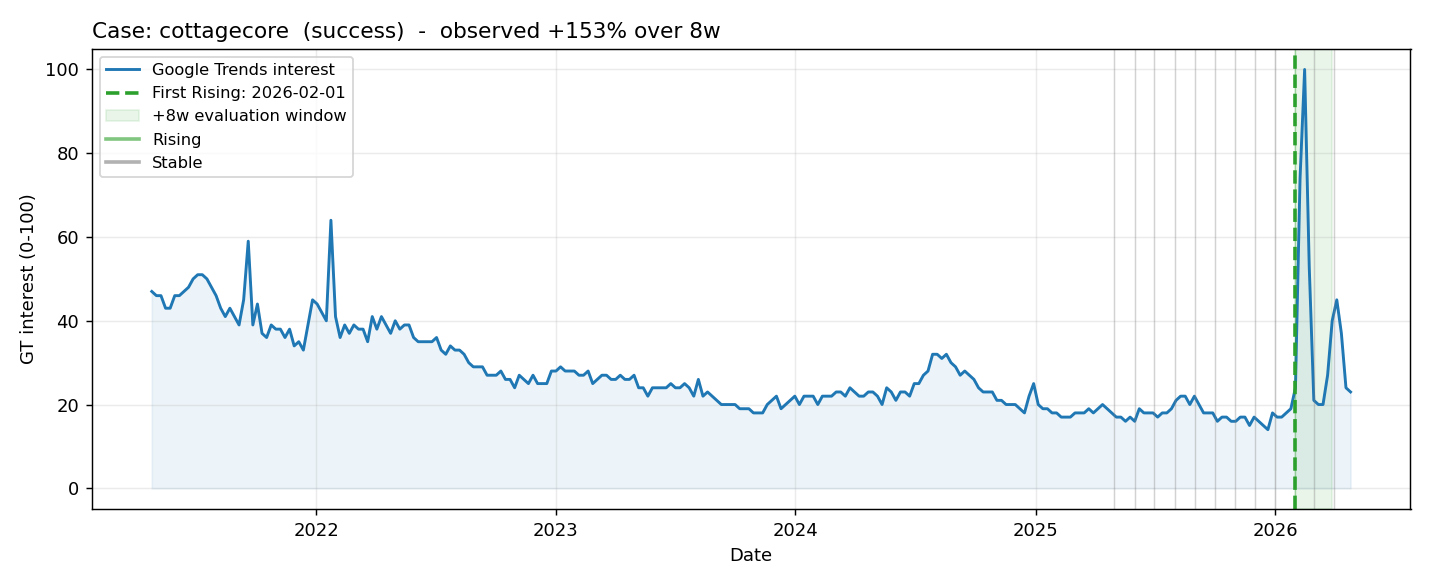
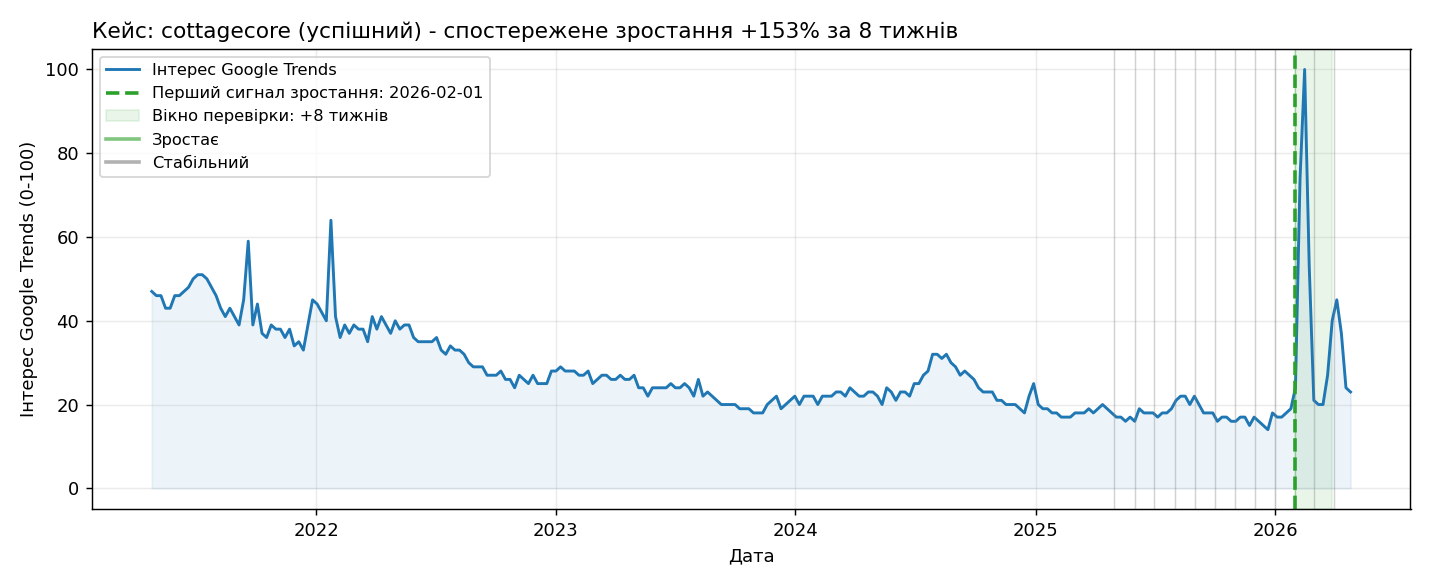
adds figures

diff --git a/src/eval/case_studies.py b/src/eval/case_studies.py
@@ -35,6 +35,10 @@ CASES_DIR = REPORTS_DIR / "case_studies"
 
 STATUS_COLORS = {"Rising": "#2ca02c", "Stable": "#7f7f7f",
                  "Declining": "#d62728", "Unknown": "#cccccc"}
+STATUS_LABELS_UA = {"Rising": "Зростає", "Stable": "Стабільний",
+                    "Declining": "Спадає", "Unknown": "Невідомо"}
+CASE_KIND_UA = {"success": "успішний", "failure": "помилковий",
+                "extra": "додатковий"}
 
 
 def _pick_cases(det: pd.DataFrame, max_cases: int) -> list[dict]:
@@ -99,7 +103,8 @@ def _draw_case(
 
     fig, ax = plt.subplots(figsize=(11, 4.5))
     ax.plot(sub_gt["date"], sub_gt["interest"],
-            color="#1f77b4", linewidth=1.6, label="Google Trends interest")
+            color="#1f77b4", linewidth=1.6,
+            label="Інтерес Google Trends")
     ax.fill_between(sub_gt["date"], 0, sub_gt["interest"],
                     color="#1f77b4", alpha=0.08)
 
@@ -114,21 +119,21 @@ def _draw_case(
         first_rising = rising.iloc[0]
         ax.axvline(first_rising["as_of"], color="#2ca02c",
                    linewidth=2.0, linestyle="--",
-                   label=f"First Rising: {first_rising['as_of'].date()}")
+                   label=f"Перший сигнал зростання: {first_rising['as_of'].date()}")
         # Highlight evaluation horizon.
         end = first_rising["as_of"] + pd.Timedelta(weeks=horizon_weeks)
         ax.axvspan(first_rising["as_of"], end,
                    color="#2ca02c", alpha=0.10,
-                   label=f"+{horizon_weeks}w evaluation window")
+                   label=f"Вікно перевірки: +{horizon_weeks} тижнів")
 
-    title = f"Case: {keyword}  ({kind})"
+    title = f"Кейс: {keyword} ({CASE_KIND_UA.get(kind, kind)})"
     if "gt_growth" in sub_det.columns and rising is not None and not rising.empty:
         first = rising.iloc[0]
         if pd.notna(first.get("gt_growth")):
-            title += f"  -  observed +{first['gt_growth']*100:.0f}% over {horizon_weeks}w"
+            title += f" - спостережене зростання +{first['gt_growth']*100:.0f}% за {horizon_weeks} тижнів"
     ax.set_title(title, fontsize=12, loc="left")
-    ax.set_xlabel("Date")
-    ax.set_ylabel("GT interest (0-100)")
+    ax.set_xlabel("Дата")
+    ax.set_ylabel("Інтерес Google Trends (0-100)")
     ax.grid(True, alpha=0.25)
 
     # Custom legend (status colours + lines).
@@ -137,8 +142,9 @@ def _draw_case(
         if (sub_det["status"] == status_name).any():
             from matplotlib.lines import Line2D
             handles.append(Line2D([0], [0], color=color, linewidth=2,
-                                  alpha=0.6, label=status_name))
-            labels.append(status_name)
+                                  alpha=0.6,
+                                  label=STATUS_LABELS_UA.get(status_name, status_name)))
+            labels.append(STATUS_LABELS_UA.get(status_name, status_name))
     ax.legend(handles, labels, loc="upper left", fontsize=9, frameon=True)
 
     fig.tight_layout()
@@ -210,7 +216,8 @@ def _draw_topic_case(
 
     fig, ax = plt.subplots(figsize=(11, 4.5))
     ax.plot(sub_ts["period"], sub_ts["count"],
-            color="#1f77b4", linewidth=1.6, label="Topic count (weekly)")
+            color="#1f77b4", linewidth=1.6,
+            label="Кількість документів теми за тиждень")
     ax.fill_between(sub_ts["period"], 0, sub_ts["count"],
                     color="#1f77b4", alpha=0.08)
 
@@ -219,21 +226,21 @@ def _draw_topic_case(
         ax.axvline(r["as_of"], color=c, alpha=0.35, linewidth=0.8)
 
     rising = sub_det[sub_det["status"] == "Rising"]
-    title = f"Topic #{tid} ({case['kind']}): {case['label']}"
+    title = f"Тема #{tid} ({CASE_KIND_UA.get(case['kind'], case['kind'])}): {case['label']}"
     if not rising.empty:
         first_rising = rising.iloc[0]
         ax.axvline(first_rising["as_of"], color="#2ca02c",
                    linewidth=2.0, linestyle="--",
-                   label=f"First Rising: {first_rising['as_of'].date()}")
+                   label=f"Перший сигнал зростання: {first_rising['as_of'].date()}")
         end = first_rising["as_of"] + pd.Timedelta(weeks=horizon_weeks)
         ax.axvspan(first_rising["as_of"], end,
                    color="#2ca02c", alpha=0.10,
-                   label=f"+{horizon_weeks}w evaluation window")
+                   label=f"Вікно перевірки: +{horizon_weeks} тижнів")
         if pd.notna(first_rising.get("ts_growth")):
-            title += f"  -  observed {first_rising['ts_growth']*100:+.0f}% over {horizon_weeks}w"
+            title += f" - спостережена зміна {first_rising['ts_growth']*100:+.0f}% за {horizon_weeks} тижнів"
     ax.set_title(title, fontsize=12, loc="left")
-    ax.set_xlabel("Date")
-    ax.set_ylabel("Posts/week mentioning topic")
+    ax.set_xlabel("Дата")
+    ax.set_ylabel("Документів на тиждень")
     ax.grid(True, alpha=0.25)
 
     handles, labels = ax.get_legend_handles_labels()
@@ -241,8 +248,9 @@ def _draw_topic_case(
     for status_name, color in STATUS_COLORS.items():
         if (sub_det["status"] == status_name).any():
             handles.append(Line2D([0], [0], color=color, linewidth=2,
-                                  alpha=0.6, label=status_name))
-            labels.append(status_name)
+                                  alpha=0.6,
+                                  label=STATUS_LABELS_UA.get(status_name, status_name)))
+            labels.append(STATUS_LABELS_UA.get(status_name, status_name))
     ax.legend(handles, labels, loc="upper left", fontsize=9, frameon=True)
 
     fig.tight_layout()

diff --git a/src/preprocess/cleaner.py b/src/preprocess/cleaner.py
@@ -2,11 +2,12 @@
 
 Steps:
 1. Combine title + selftext.
-2. Remove URLs, markdown, HTML, control characters.
-3. Demojize emoji to text tokens.
-4. Filter to English posts (langdetect).
-5. Lemmatize with spaCy, drop stopwords / punctuation / short tokens.
-6. Save cleaned text alongside original metadata.
+2. Drop posts flagged as adult/sensitive by source platforms.
+3. Remove URLs, markdown, HTML, control characters.
+4. Demojize emoji to text tokens.
+5. Filter to English posts (langdetect).
+6. Lemmatize with spaCy, drop stopwords / punctuation / short tokens.
+7. Save cleaned text alongside original metadata.
 
 Usage:
     python -m src.preprocess.cleaner \
@@ -117,6 +118,12 @@ def lemmatize_batch(texts: Iterable[str], nlp, batch_size: int = 64) -> list[str
 def preprocess(df: pd.DataFrame, min_tokens: int = 5) -> pd.DataFrame:
     log.info("Combining title + selftext for %d rows", len(df))
     df = df.copy()
+
+    if "over_18" in df.columns:
+        before = len(df)
+        df = df[~df["over_18"].fillna(False).astype(bool)].reset_index(drop=True)
+        log.info("Dropped %d adult/sensitive posts", before - len(df))
+
     df["raw_text"] = (df["title"].fillna("") + ". " + df["selftext"].fillna("")).str.strip()
 
     log.info("Cleaning raw text")
